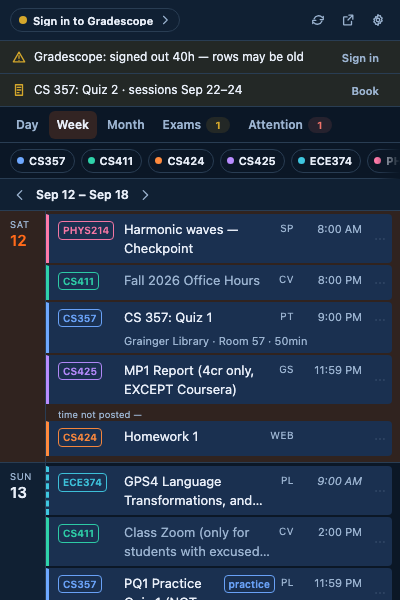
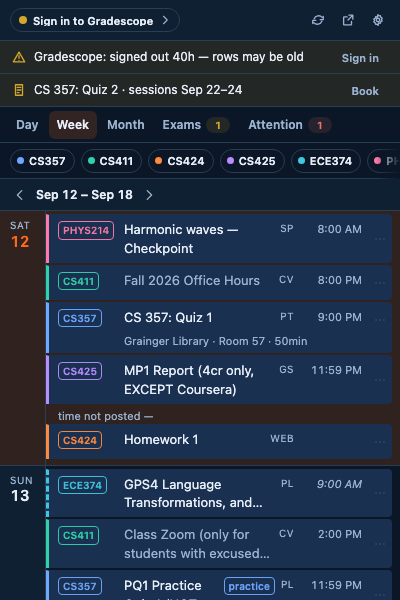
Polish: the type floor, tabular figures, and two-line month pills
The last of the plan's minors, and one of them is not cosmetic. Proportional
digits make "11:59 PM" narrower than "10:00 AM", so a column of clocks does
not line up on its right edge — which is the single thing the row's fixed
tracks were introduced to buy. tabular-nums on every clock, date number and
count.

Nothing renders below 10px now (it was 9px on "+N more" and 9.5px on the hour
axis, the week gutter and the month header), and 10px is kept only for tracked
uppercase labels and the hour axis.

Month pills take two lines in the full view. A cell is 137px wide and the
course code eats 45 of them, so a one-line pill cut most UIUC titles before
the noun; the tab has the height spare and the popup does not draw a month at
all.

Final check in the real popup document, dark, light and High contrast: 400 /
400 / visible, nothing past 401 outside the course strip, 145px of chrome
healthy and 211 worst case. The High-contrast theme still gives the health dot
a shape as well as a colour, which is the property that had to survive six
dots becoming one pill.

diff --git a/public/popup.css b/public/popup.css
@@ -102,7 +102,7 @@ html.view-full,
 /* Errors only, and hidden the rest of the time — see popup.html. */
 #status { margin: 0; }
 #status[hidden] { display: none; }
-.row--moved { color: var(--warn); font-size: 10px; white-space: nowrap; }
+.row--moved { color: var(--warn); font-size: 11px; white-space: nowrap; }
 /* Late, not lost: full credit has gone but the window is still open. */
 .chip-practice { border-style: dashed; opacity: .8; }
 /* The name cell: title shrinks, chip does not. */
@@ -176,7 +176,16 @@ h2.section {
 /* Only merged rows carry text here, so it is a mark rather than a column
    of labels — cursor: help says there is something to read. */
 .row--sources { font-size: 10px; color: var(--muted); white-space: nowrap; letter-spacing: .04em; text-align: right; cursor: help; }
-.row--due { font-size: 11px; color: var(--muted); white-space: nowrap; text-align: right; }
+/*
+ * `tabular-nums` on every clock and count.
+ *
+ * Proportional digits make "11:59 PM" narrower than "10:00 AM", so a column of
+ * clocks does not line up on its right edge — which is the one thing a fixed
+ * track was introduced to buy. It also stops a count flickering wider as it
+ * ticks from 9 to 10 under the cursor.
+ */
+.row--due { font-size: 11px; color: var(--muted); white-space: nowrap; text-align: right;
+  font-variant-numeric: tabular-nums; }
 .row-overdue .row--due { color: var(--err); }
 .row-booking .row--due { color: var(--warn); }
 
@@ -303,7 +312,7 @@ h2.section {
 .fchip[aria-pressed="false"] { opacity: .45; }
 .fchip[aria-pressed="false"] i { background: transparent; box-shadow: inset 0 0 0 1.5px var(--course); }
 .fchip[aria-pressed="false"] span { text-decoration: line-through; }
-.fhidden { flex: none; font-size: 10px; color: var(--warn); padding-left: 2px; cursor: help; }
+.fhidden { flex: none; font-size: 11px; color: var(--warn); padding-left: 2px; cursor: help; }
 
 /* ---- date navigator: 32px, arrows either side of the label ----
  *
@@ -317,7 +326,7 @@ h2.section {
 }
 .datenav[hidden] { display: none; }
 .datenav--label {
-  font-weight: 600; font-size: 12px;
+  font-weight: 600; font-size: 12px; font-variant-numeric: tabular-nums;
   padding: 0 2px; white-space: nowrap;
 }
 .datenav--today { margin-left: auto; }
@@ -344,13 +353,13 @@ h2.section {
 
 /* ---- the untimed band ---- */
 .band { border-bottom: 1px solid var(--line); background: var(--tint); }
-.band--note { font-size: 10px; color: var(--muted); padding: 6px 12px 2px; margin: 0; line-height: 1.3; }
+.band--note { font-size: 11px; color: var(--muted); padding: 6px 12px 2px; margin: 0; line-height: 1.35; }
 
 /* ---- day grid ---- */
 .grid { display: grid; grid-template-columns: 42px 1fr; }
 .grid--hours { border-right: 1px solid var(--line); }
 .grid--hour {
-  height: 26px; font-size: 9.5px; color: var(--muted);
+  height: 26px; font-size: 10px; color: var(--muted); font-variant-numeric: tabular-nums;
   text-align: right; padding-right: 5px; transform: translateY(-5px);
 }
 .grid--slots { position: relative; }
@@ -367,17 +376,17 @@ h2.section {
 .wrow:first-child { border-top: 0; }
 .wrow--today { background: var(--today-tint); }
 .wday { padding: 7px 6px 8px 10px; border-right: 1px solid var(--line); }
-.wday--dow { font-size: 9.5px; text-transform: uppercase; color: var(--muted); letter-spacing: .05em; }
-.wday--num { font-size: 15px; font-weight: 600; line-height: 1.1; }
+.wday--dow { font-size: 10px; text-transform: uppercase; color: var(--muted); letter-spacing: .05em; }
+.wday--num { font-size: 15px; font-weight: 600; line-height: 1.1; font-variant-numeric: tabular-nums; }
 .wrow--today .wday--num { color: var(--now); }
 .witems { padding: 3px 0 4px; min-width: 0; }
 .witems--empty { color: var(--muted); font-size: 11px; padding: 8px 0 9px 10px; opacity: .6; }
-.wuntimed { font-size: 9.5px; color: var(--muted); padding: 2px 0 0 12px; cursor: help; }
+.wuntimed { font-size: 11px; color: var(--muted); padding: 2px 0 0 12px; cursor: help; }
 
 /* ---- month, full view only ---- */
 .mhead { display: grid; grid-template-columns: repeat(7, 1fr); border-bottom: 1px solid var(--line); }
 .mhead div {
-  font-size: 9.5px; text-transform: uppercase; letter-spacing: .05em;
+  font-size: 10px; text-transform: uppercase; letter-spacing: .05em;
   color: var(--muted); text-align: center; padding: 6px 0;
 }
 .mgrid { display: grid; grid-template-columns: repeat(7, 1fr); }
@@ -387,7 +396,8 @@ h2.section {
 }
 .mcell:nth-child(7n + 1) { border-left: 0; }
 .mcell--out { background: var(--tint); }
-.mnum { font-size: 12px; color: var(--fg); font-weight: 600; padding: 1px 2px 3px; }
+.mnum { font-size: 12px; color: var(--fg); font-weight: 600; padding: 1px 2px 3px;
+  font-variant-numeric: tabular-nums; }
 .mcell--out .mnum { color: var(--muted); opacity: .55; }
 .mcell--today .mnum {
   color: var(--accent-ink); background: var(--now); border-radius: 50%;
@@ -415,7 +425,7 @@ h2.section {
 .mpill--exam { background: var(--warn-wash-strong); }
 .mpill--untimed .mpill--name { font-style: italic; }
 .mmore {
-  font: inherit; font-size: 9px; color: var(--muted); background: none;
+  font: inherit; font-size: 11px; color: var(--muted); background: none;
   border: 0; padding: 1px 3px; text-align: left; cursor: pointer;
 }
 .mmore:hover { color: var(--fg); }
@@ -678,8 +688,23 @@ h2.section.section--err { color: var(--err); opacity: 1; }
 .view-full .mcell--today .mnum {
   width: 30px; height: 30px; padding: 0; margin: -3px 0 -2px; font-weight: 650;
 }
-.view-full .mpill { font-size: 12px; padding: 4px 7px; border-left-width: 4px; border-radius: 5px; }
+.view-full .mpill {
+  font-size: 12px; padding: 4px 7px; border-left-width: 4px; border-radius: 5px;
+  align-items: baseline;
+}
 .view-full .mpill--code { font-size: 11px; }
+/*
+ * Two lines in the full view, one in the popup.
+ *
+ * A month cell is 137px wide and the course code eats 45 of them, so a pill
+ * truncated at 13–15 characters is most UIUC titles cut before the noun. In a
+ * tab the cell is taller than it needs to be and the second line is free; in a
+ * 400px popup the month is not drawn at all.
+ */
+.view-full .mpill--name {
+  white-space: normal; display: -webkit-box;
+  -webkit-box-orient: vertical; -webkit-line-clamp: 2;
+}
 .view-full .mpill:hover { filter: brightness(1.12); }
 .view-full #status { padding: 10px 24px 0; }
 .view-full .wday { padding: 12px; }

diff --git a/PROGRESS.md b/PROGRESS.md
@@ -25,6 +25,36 @@ from here.**
   store assets. Five decisions for Sushi are listed in its §7.
 - Nothing in the extension changed. G4/G5 unchanged.
 
+## UX plan — polish pass and what is left — 2026-09-12
+- **m10** nothing renders below 10px any more (was 9px on "+N more" and 9.5px on the hour
+  axis, the week's gutter and the month header). 10px is kept only for tracked uppercase
+  labels and the hour axis; everything else is 11 or up.
+- **§4.2** `tabular-nums` on every clock, date number and count. Proportional digits make
+  "11:59 PM" narrower than "10:00 AM", so a column of clocks does not line up on its right
+  edge — which is the one thing the row's fixed tracks exist to buy.
+- **m4** month pills take two lines in the full view. A cell is 137px and the course code
+  eats 45 of them, so a one-line pill cut most UIUC titles before the noun; the tab has
+  the height and the popup does not draw a month at all.
+- **m2** the last text glyphs are gone: the Attention fold's `▸`/`▾` is an SVG chevron
+  that rotates.
+- Final check in the real popup document, **dark, light and High contrast**: body 400 /
+  `scrollWidth` 400 / `overflowY: visible`, nothing past 401px outside the course strip,
+  smallest type 10px, chrome 145px healthy and 211px worst case. In High contrast the
+  health dot keeps a shape per state, which survived the six-dots→one-pill change.
+
+### Still Sushi's — nothing here can be done from this side
+
+1. **Load the unpacked build and report the console.** `npm run build`, load `dist/`, open
+   the popup. What to look for: the header pill, and no `Could not draw the list` banner.
+2. **A clean-profile install (phase E).** Does a tab open by itself, does it lead with the
+   pin card, and does "Show my calendar" work. This is the one thing `opensOnInstall`'s
+   test cannot tell us, because the test is about the argument and the question is about
+   Chrome.
+3. **One reminder toast (phase F).** The title should lead with the assignment, and the
+   small third line should name the site.
+4. **G4's beta**, then the developer account, the privacy-policy URL on GitHub Pages, and
+   the pre-submit walk in `docs/store/listing.md`.
+
 ## UX plan phase G — store readiness — 2026-09-12
 Sushi's decisions: **icon A (Dash)**, **version 1.0.0**.
 
